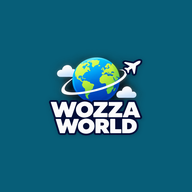
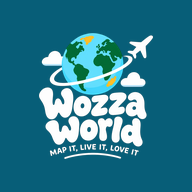
Add files via upload

Changed region(s): [[0.1875, 0.1562, 0.8125, 0.8438]]

diff --git a/index.html b/index.html
@@ -5,9 +5,9 @@
 <meta name="viewport" content="width=device-width,initial-scale=1,viewport-fit=cover">
 <meta name="theme-color" content="#075E78">
 <title>WozzaWorld</title>
-<link rel="manifest" href="manifest.webmanifest?v=0.16.8">
-<link rel="icon" href="icon-192.png?v=0.16.8" type="image/svg+xml">
-<link rel="apple-touch-icon" href="icon-192.png?v=0.16.8">
+<link rel="manifest" href="manifest.webmanifest?v=0.19.2">
+<link rel="icon" href="icon-192.png?v=0.19.2" type="image/svg+xml">
+<link rel="apple-touch-icon" href="icon-192.png?v=0.19.2">
 <link href="https://fonts.googleapis.com/css2?family=Archivo+Black&family=Inter:wght@400;600;700;800&display=swap" rel="stylesheet">
 <link rel="stylesheet" href="styles.css?v=0.18.92-header-launch-polish">
 <script src="https://cdn.jsdelivr.net/npm/d3@7/dist/d3.min.js"></script>
@@ -34,7 +34,7 @@
     <img class="splash-cloud-img cloud-r3" src="cloud-b.svg?v=0.16.8" alt="">
     <img class="splash-cloud-img cloud-r4" src="cloud-a.svg?v=0.16.8" alt="">
   </div>
-  <div class="launch-brand-lockup"><img class="launch-logo" src="wozzaworld-logo.png?v=0.19.1" alt="WozzaWorld - Map it, live it, love it"></div>
+  <div class="launch-brand-lockup"><img class="launch-logo" src="wozzaworld-logo.png?v=0.16.8" alt=""><div class="launch-tagline">MAP IT. LIVE IT. LOVE IT.</div></div>
 </div>
 <script>setTimeout(()=>document.getElementById('launchSplash')?.classList.add('hide'),2700)</script>
 <div class="map-view-title" id="mapViewTitle">MY WORLD VIEW</div>
@@ -55,7 +55,7 @@
       <svg viewBox="0 0 32 32" aria-hidden="true"><circle cx="16" cy="9" r="5"/><path d="M5 28v-3c0-5.2 4.9-8.5 11-8.5s11 3.3 11 8.5v3z"/></svg><span>Passport</span>
     </button>
   </nav>
-  <button class="brand home-link premium-brand ecosystem-brand" id="homeLogo" aria-label="WozzaWorld"><img class="brand-main-logo restored-logo" src="wozzaworld-logo.png?v=0.19.1" alt="WozzaWorld"></button>
+  <button class="brand home-link premium-brand ecosystem-brand" id="homeLogo" aria-label="WozzaWorld"><img class="brand-main-logo restored-logo" src="wozzaworld-logo.png?v=0.16.8" alt="WozzaWorld"></button>
 </header>
 
 <button id="installBtn" class="install-btn" type="button" aria-label="Add WozzaWorld to phone">＋ Add WozzaWorld to phone</button>

diff --git a/sw.js b/sw.js
@@ -1,5 +1,5 @@
-const CACHE='wozzaworld-0.19.1-logo-swap';
-const LOCAL=['./','./index.html','./styles.css?v=0.18.91-runtime-fix','./cities-data.js?v=0.17.2','./app.js?v=0.18.91-runtime-fix','./manifest.webmanifest?v=0.16.8','./icon-192.png?v=0.16.8','./icon-192.png?v=0.16.8','./icon-512.png?v=0.16.8','./wozzaworld-logo.png?v=0.19.1','./cloud-a.svg?v=0.16.8','./cloud-b.svg?v=0.16.8'];
+const CACHE='wozzaworld-0.19.2-startup-icon';
+const LOCAL=['./','./index.html','./styles.css?v=0.18.91-runtime-fix','./cities-data.js?v=0.17.2','./app.js?v=0.18.91-runtime-fix','./manifest.webmanifest?v=0.19.2','./icon-192.png?v=0.19.2','./icon-192.png?v=0.19.2','./icon-512.png?v=0.19.2','./wozzaworld-logo.png?v=0.16.8','./cloud-a.svg?v=0.16.8','./cloud-b.svg?v=0.16.8'];
 self.addEventListener('install',e=>e.waitUntil(caches.open(CACHE).then(c=>c.addAll(LOCAL)).then(()=>self.skipWaiting())));
 self.addEventListener('activate',e=>e.waitUntil(caches.keys().then(keys=>Promise.all(keys.filter(k=>k!==CACHE).map(k=>caches.delete(k)))).then(()=>self.clients.claim())));
 self.addEventListener('fetch',e=>{if(e.request.method!=='GET')return;e.respondWith(fetch(e.request,{cache:'no-store'}).then(r=>{const copy=r.clone();caches.open(CACHE).then(c=>c.put(e.request,copy));return r}).catch(()=>caches.match(e.request).then(r=>r||caches.match('./index.html'))))});
